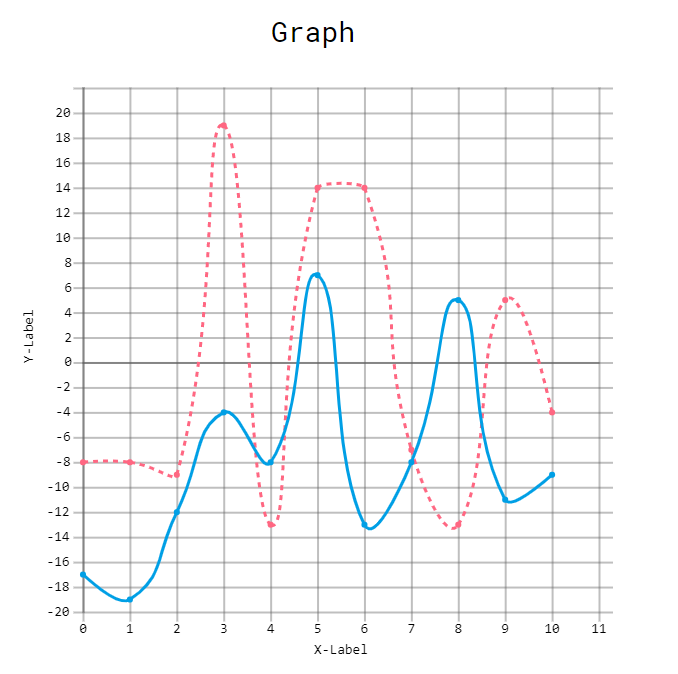
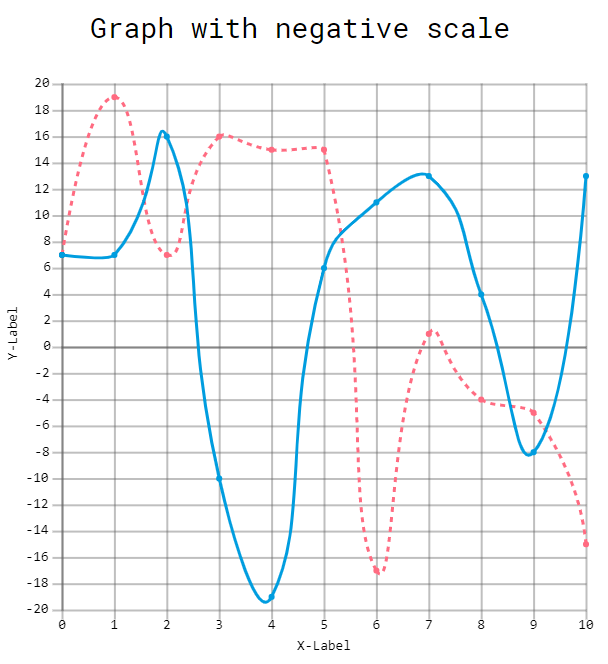
docs: 'update images' & 'negative scale code snippet to include title'

Changed region(s): [[0.0, 0.1205, 0.9688, 0.994], [0.3125, 0.0301, 0.8438, 0.0904], [0.125, 0.0301, 0.2812, 0.0602]]

diff --git a/README.md b/README.md
@@ -66,23 +66,24 @@ Result:
 The library also supports data sets which include negative numbers:
 
 ```javascript
-let graph = new Graph('graph', {
-            x_label: 'X-Label',
-            y_label: 'Y-Label',
-            tittle_pos: 'top-center',
+ let graph = new Graph("graph", {
+            x_label: "X-Label",
+            y_label: "Y-Label",
+            title_pos: "top-center",
+            title: "Graph with negative scale",
             gridded: true
         },
         [
             {
                 style: "dashed",
-                label: 'student_1',
-                interpolation: 'cubic',
+                label: "student_1",
+                interpolation: "cubic",
                 data: getRandomArray(11, -20, 20),
                 colour: Graph.Colours.FLAMINGO_PINK
             },
             {
-                label: 'student_1',
-                interpolation: 'cubic',
+                label: "student_2",
+                interpolation: "cubic",
                 data: getRandomArray(11, -20, 20),
                 colour: Graph.Colours.ELECTRIC_BLUE
             }
